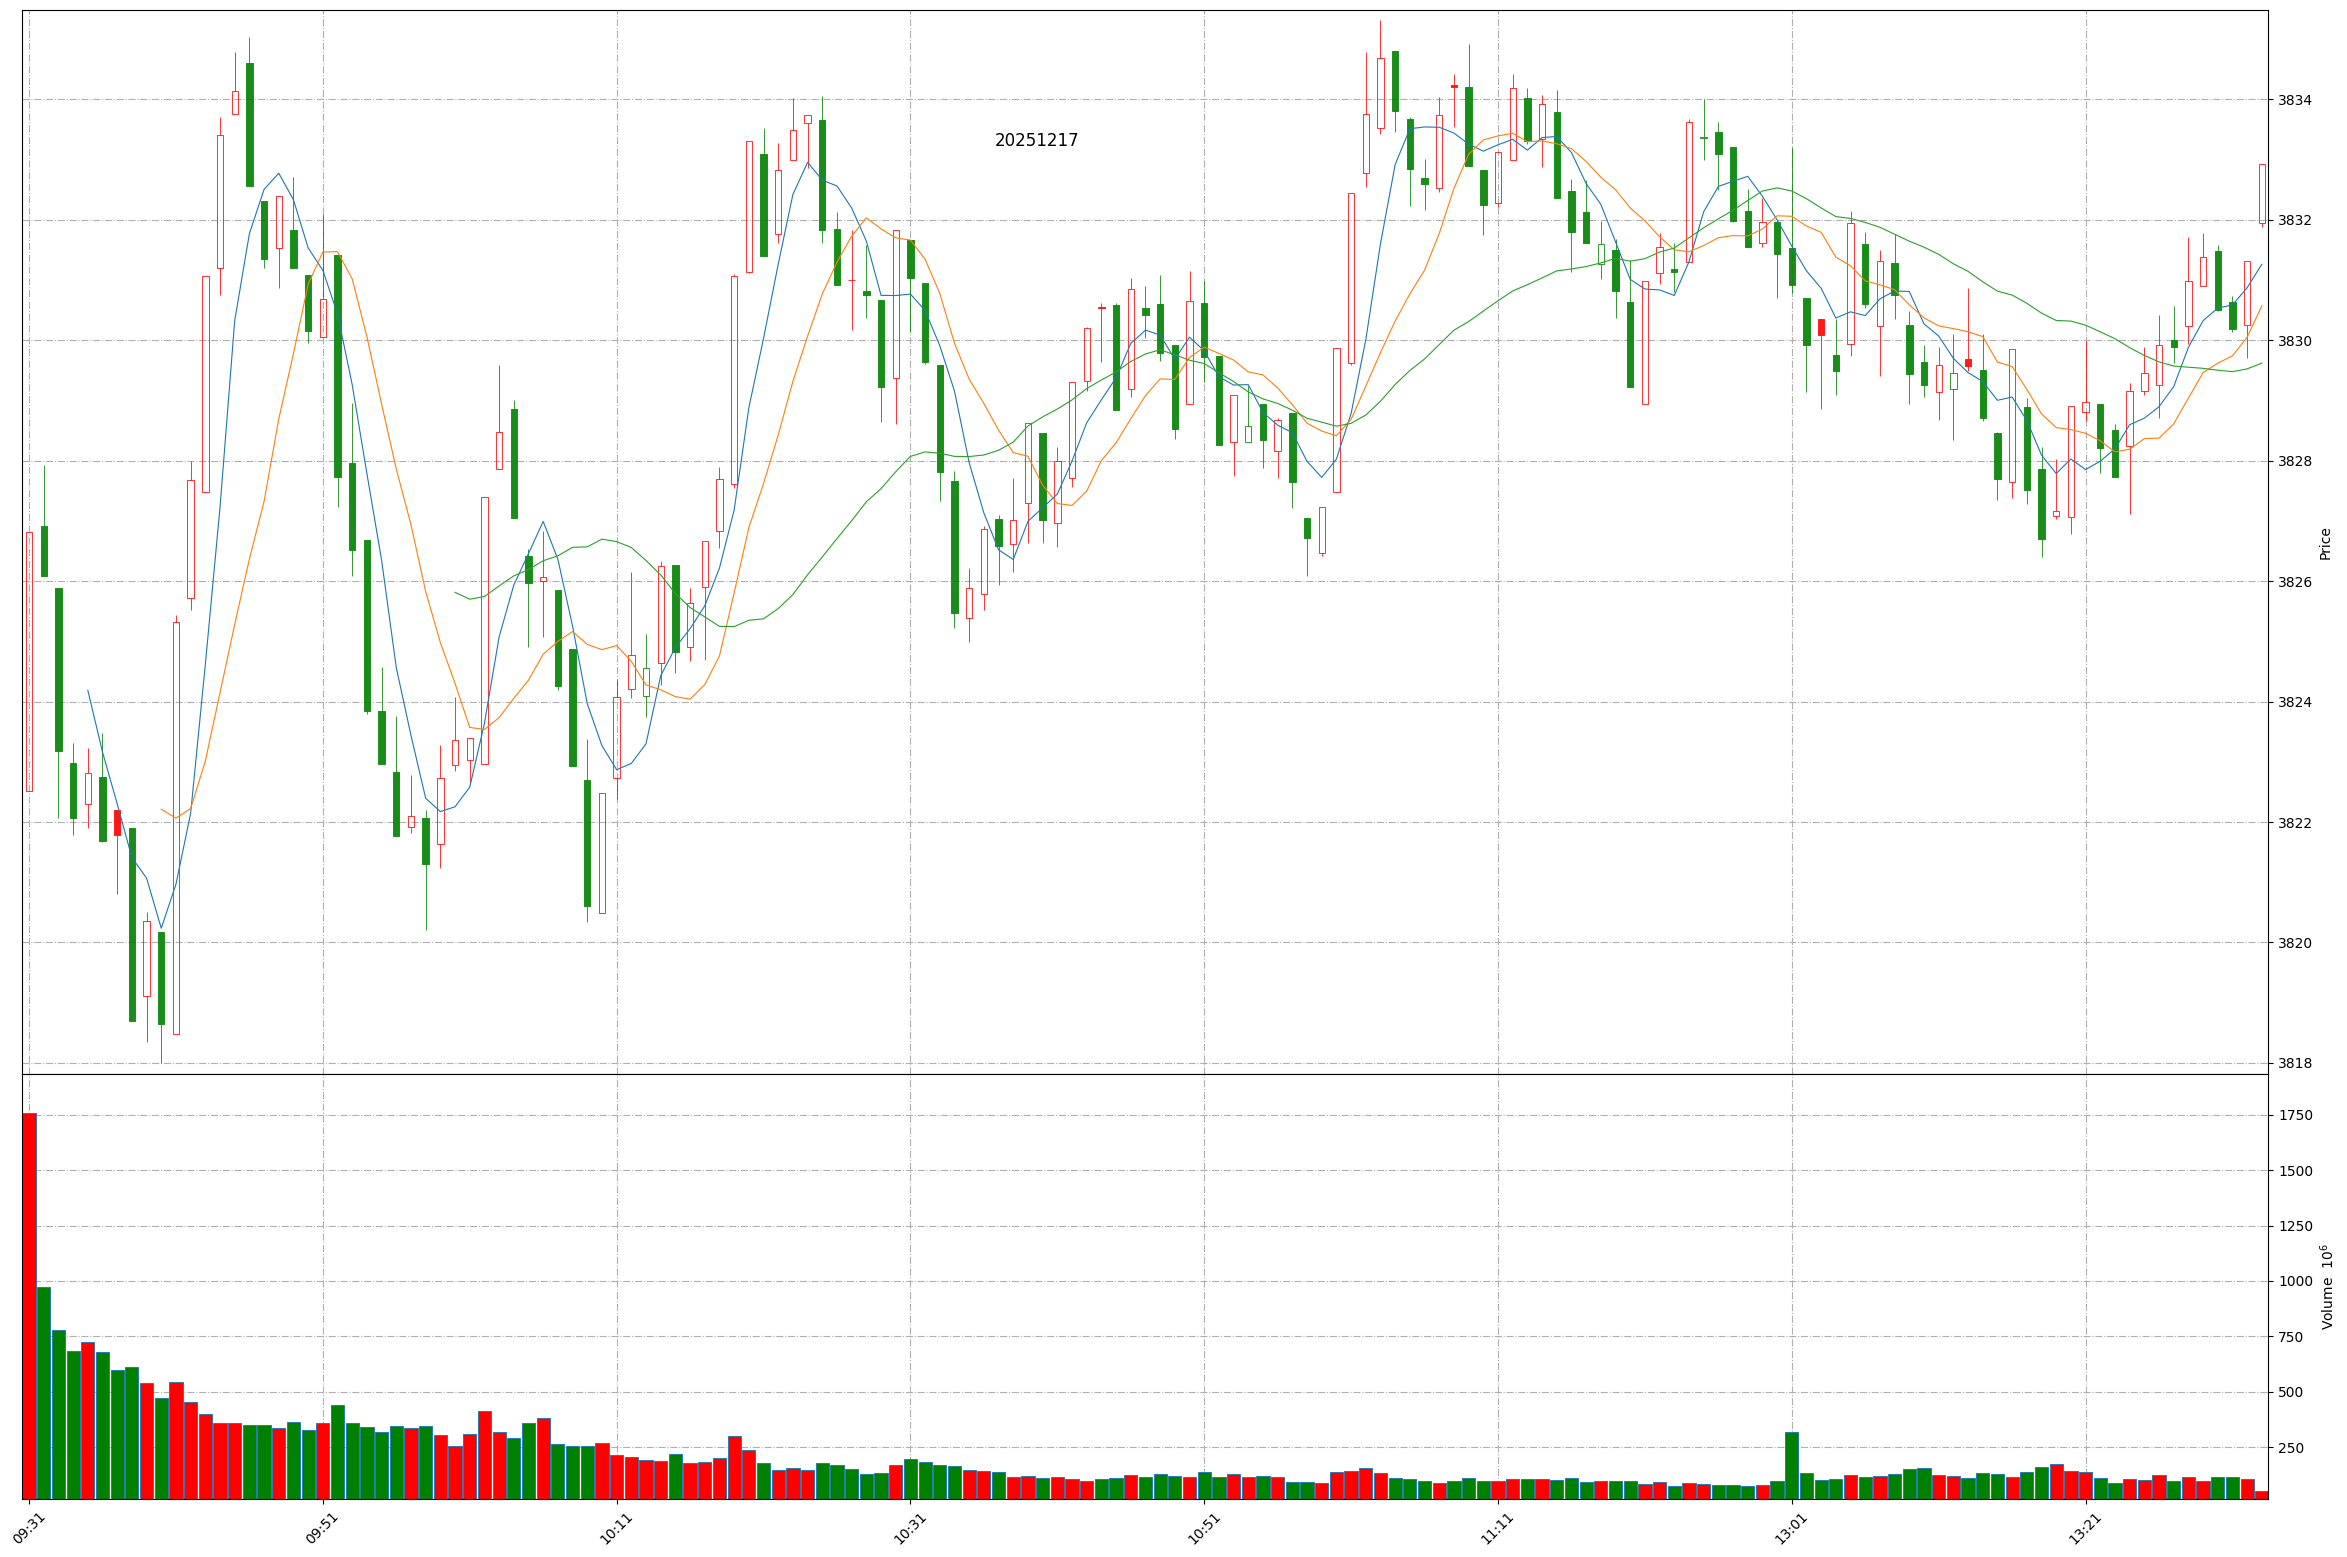
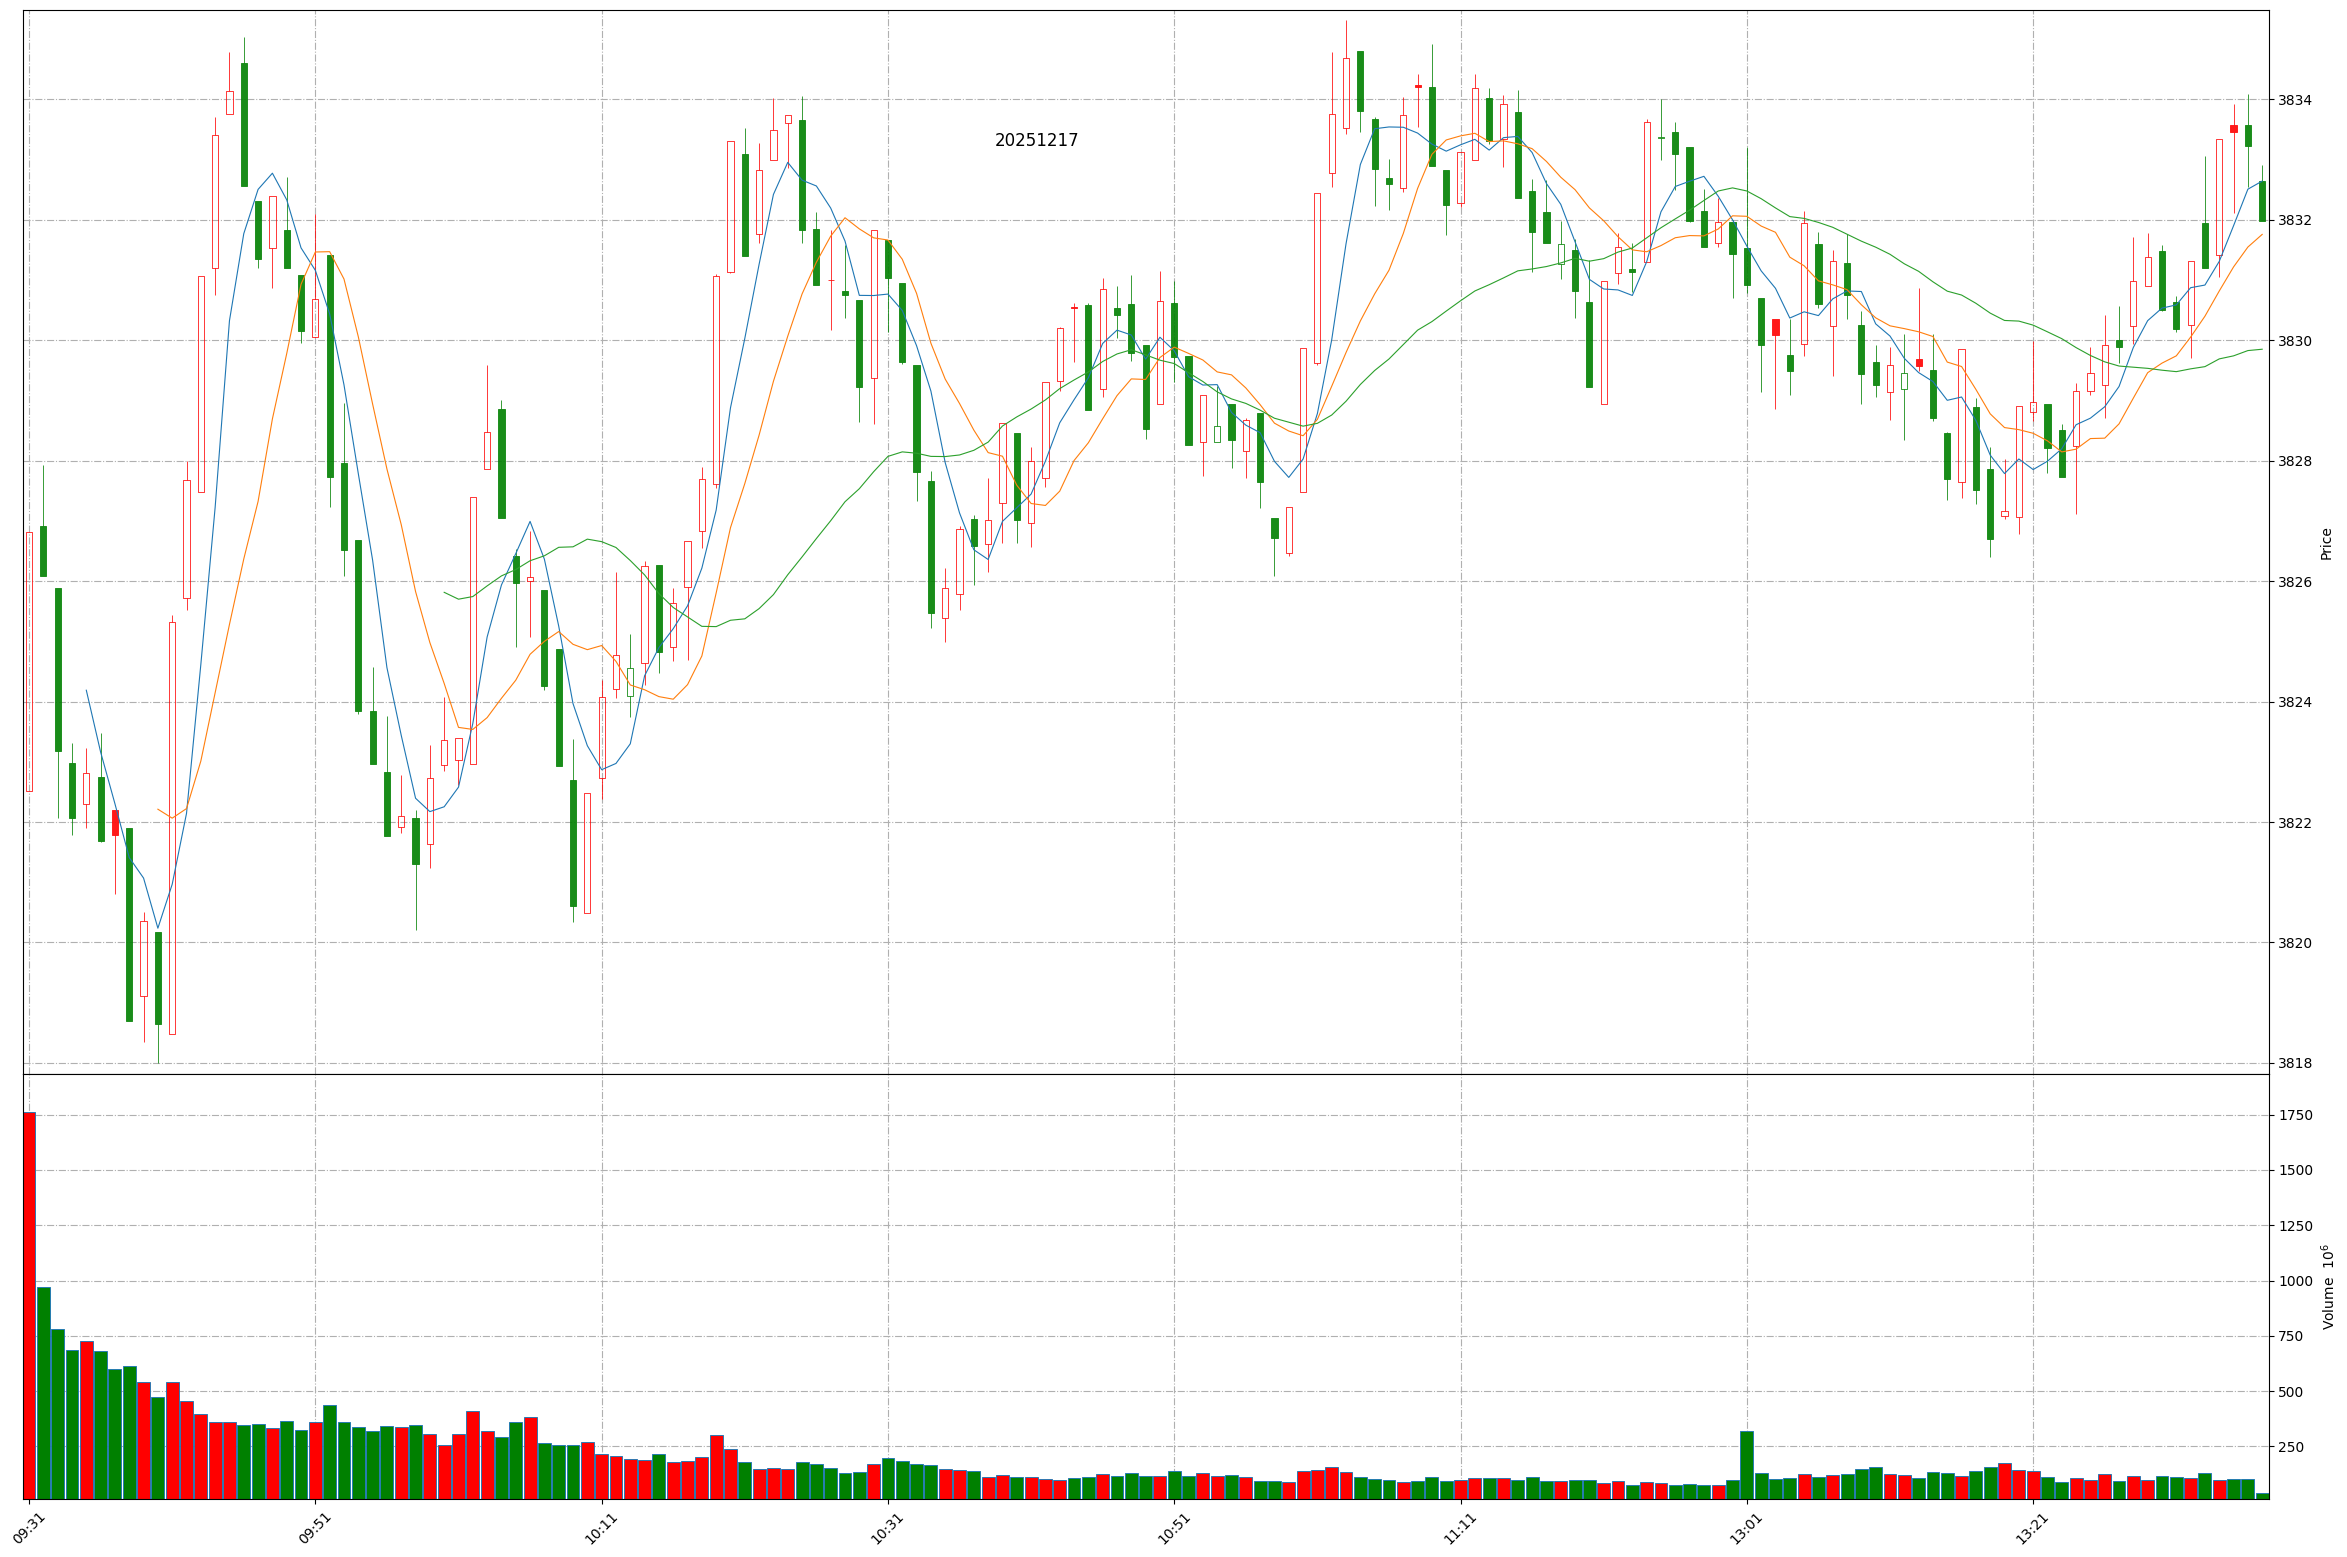
Github action update at 2025-12-17 13:36:30.

diff --git a/README.md b/README.md
@@ -1,11 +1,11 @@
 
 # Daily-A-share-market-quotes 每日 A 股指数（5min 更新）- 20251217
 
-### 上证指数 20251217 13:32
+### 上证指数 20251217 13:36
 ![](./fig/2025/12/20251217-sh000001.png)
 
-### 深证成指 20251217 13:32
+### 深证成指 20251217 13:36
 ![](./fig/2025/12/20251217-sz399001.png)
 
-### 北证50 20251217 13:32
+### 北证50 20251217 13:36
 ![](./fig/2025/12/20251217-bj899050.png)
